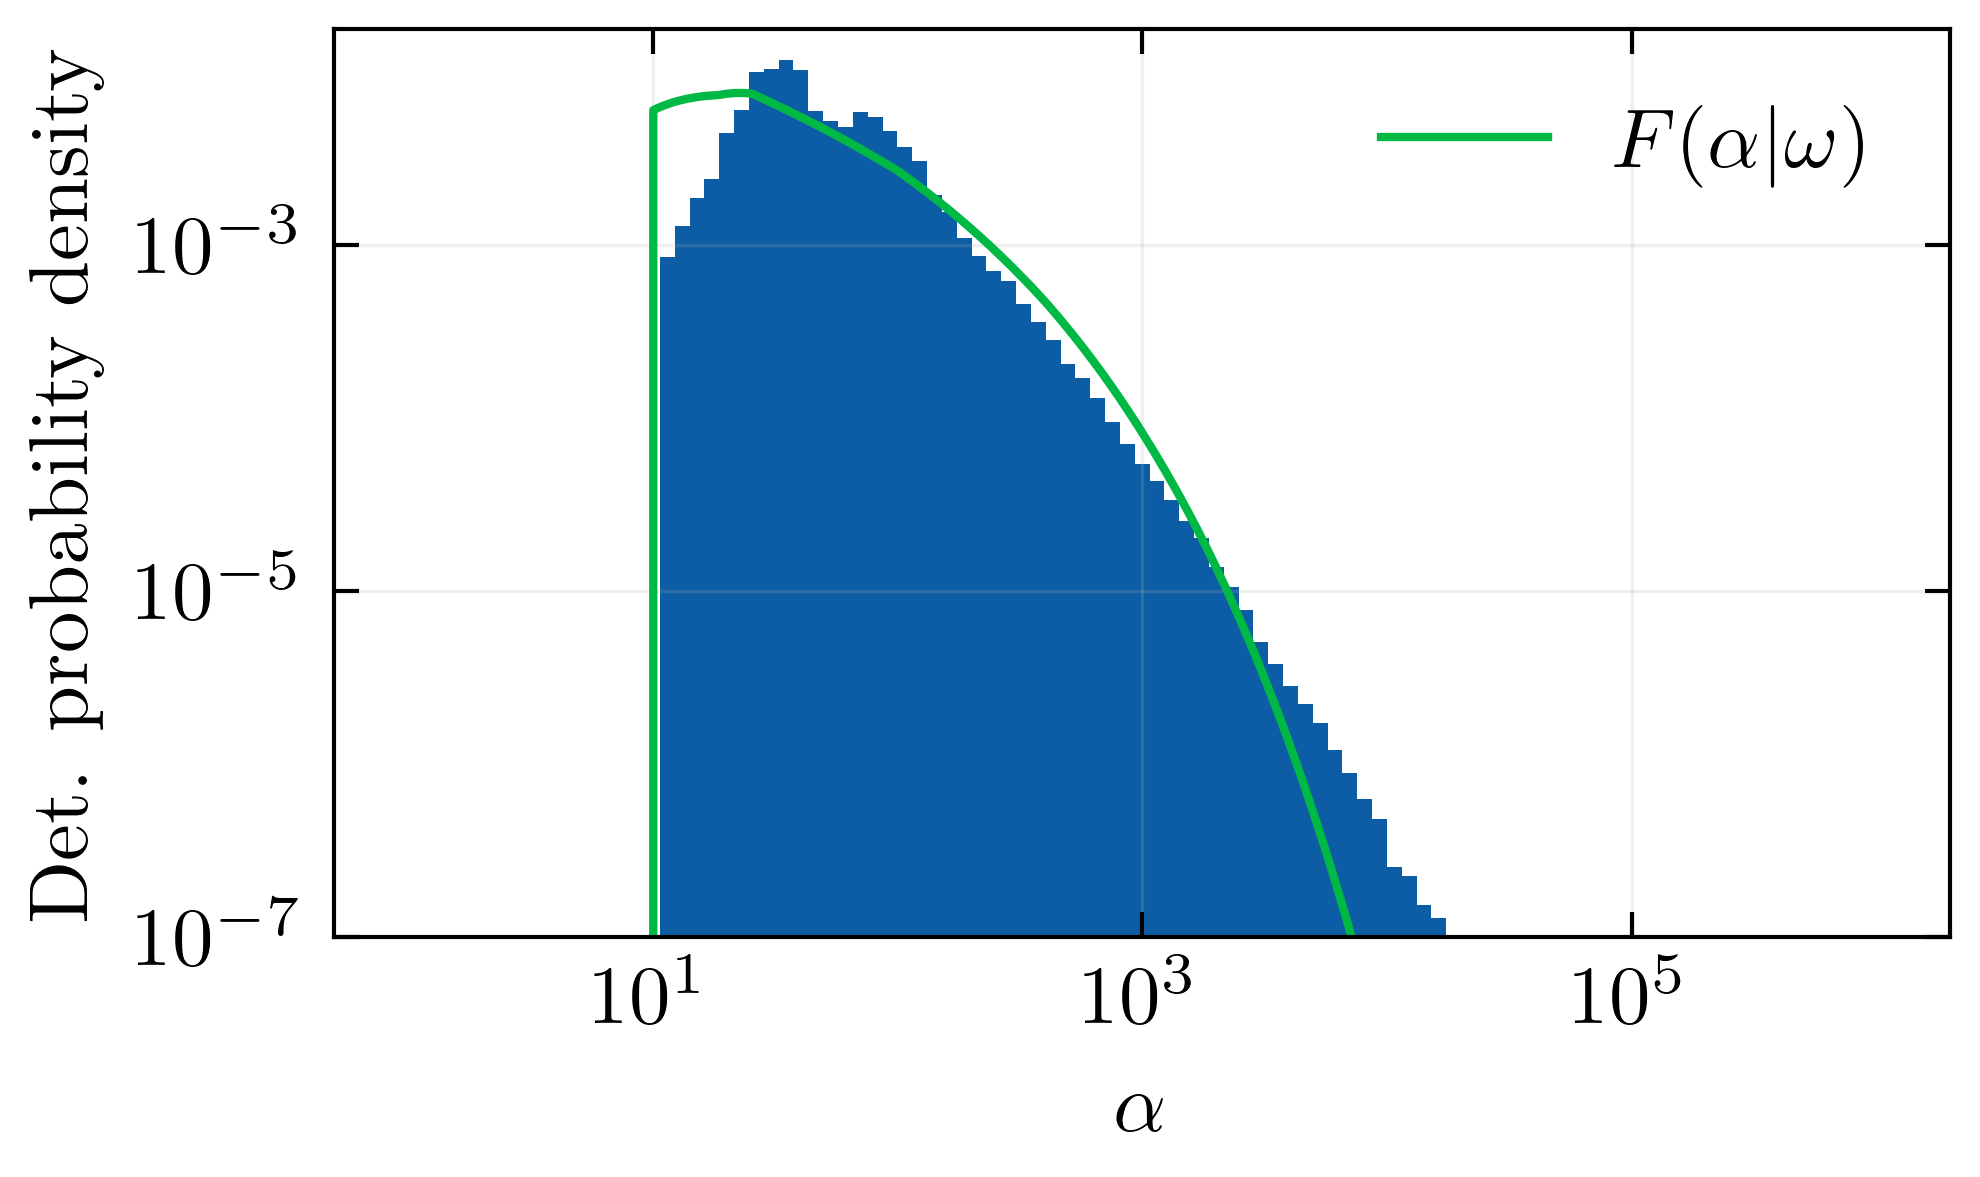
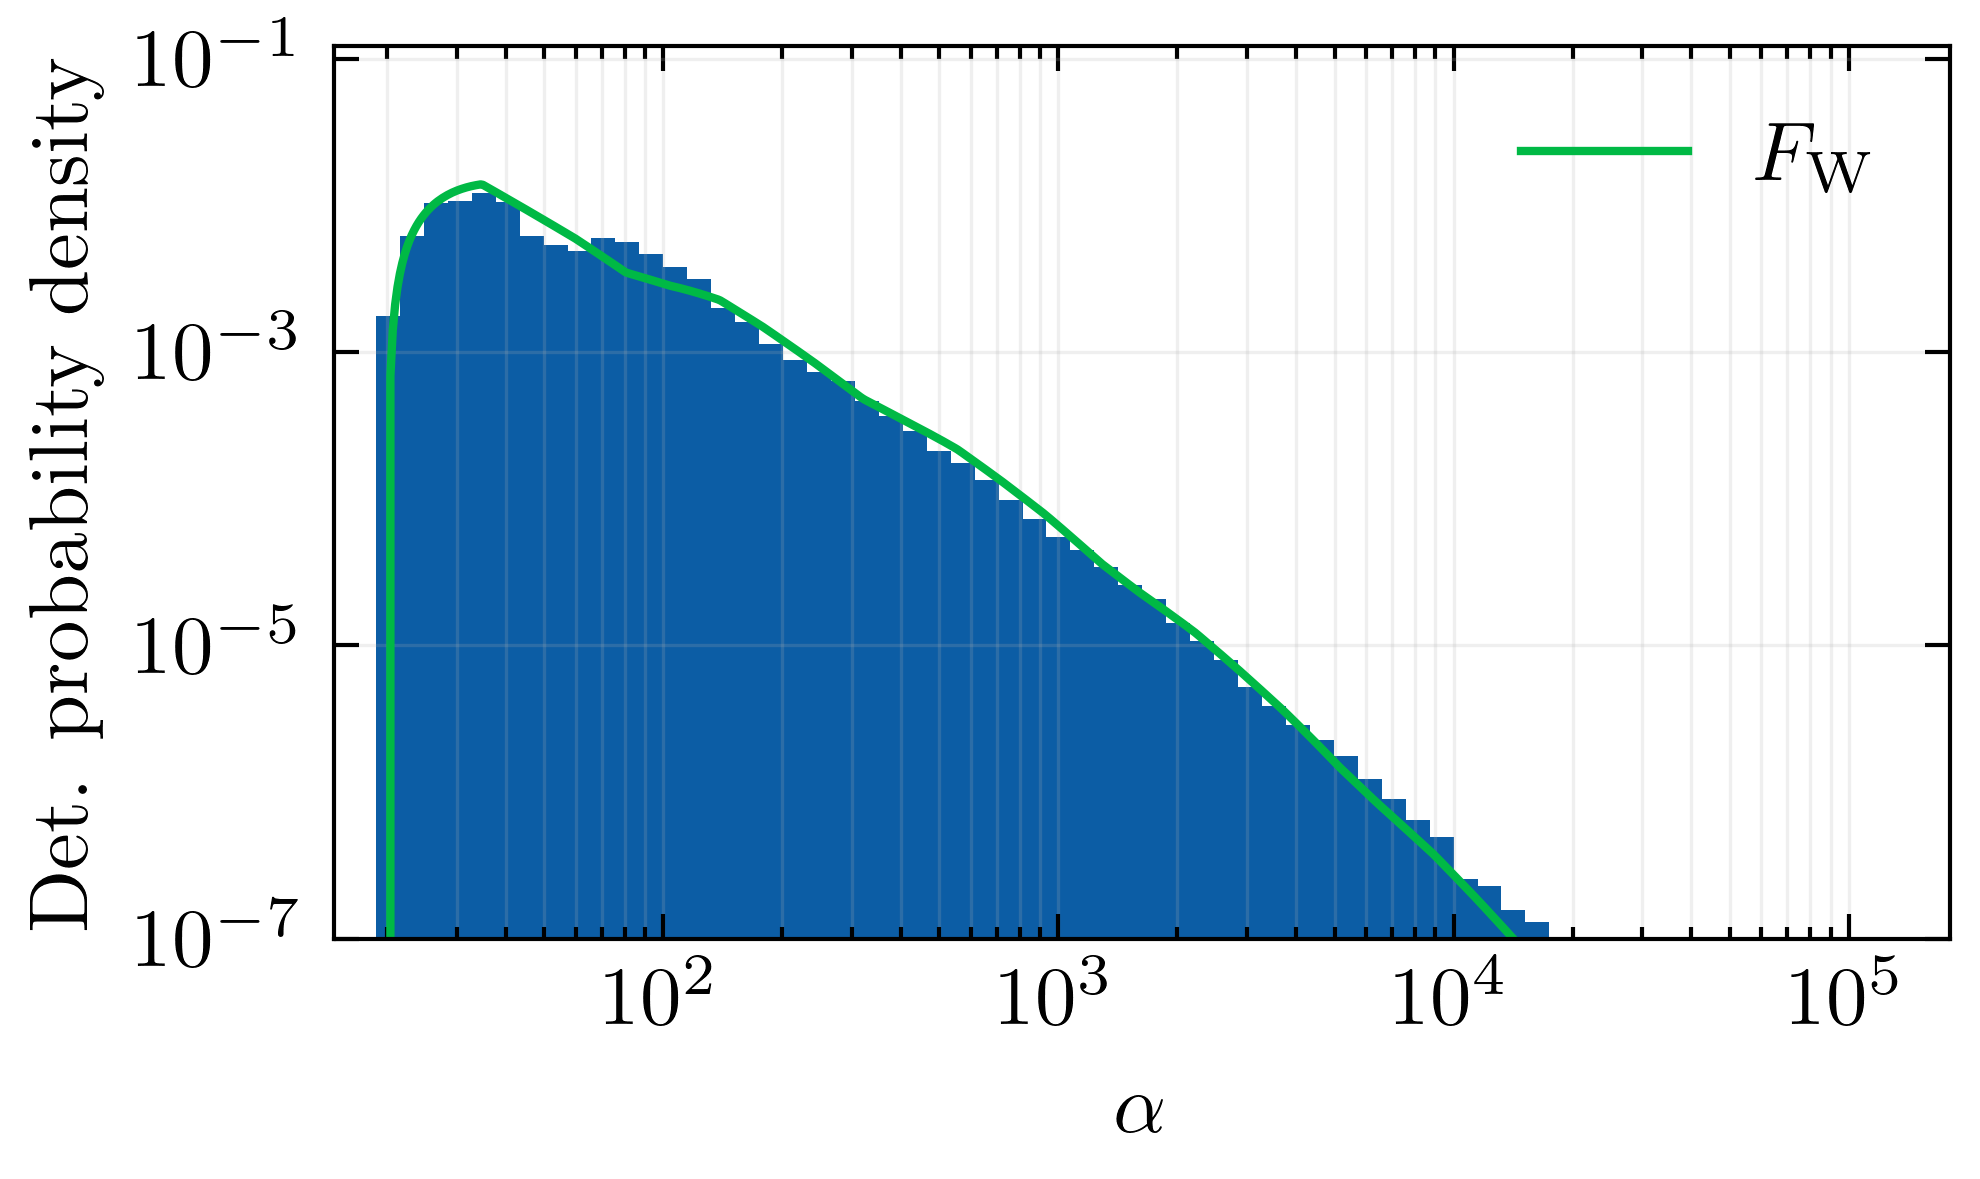
First plot of distortions

diff --git a/src/boulder_statistics/analysis/quick_calculate_Weibull.py b/src/boulder_statistics/analysis/quick_calculate_Weibull.py
@@ -12,8 +12,6 @@ from boulder_statistics.analysis.quick_calculate_general import \
 
 @dataclass(frozen=True)
 class WeibullFittingFunction(GeneralPSFDFittingFunction[WeibullFitParams]):
-    LAD_min = 0
-
     def flat_PSFD_func(self, alphas, phis, phi_weights,
                        fit_params) -> np.ndarray:
         return (alphas ** (fit_params.k - 1)) * self.CFS_sum(

diff --git a/src/boulder_statistics/analysis/quick_calculate_general.py b/src/boulder_statistics/analysis/quick_calculate_general.py
@@ -24,7 +24,7 @@ relative_alpha: Expr = pl.col(
 @dataclass(frozen=True)
 class GeneralPSFDFittingFunction[T: FitParams](ABC):
     dp: DataProductEncyclopedia
-    LAD_min: float = 2
+    LAD_min: float
     max_fitting_alpha: float = 1e8  # 1e4
     # Does have to be in the database first
     S_manual_interp_Jaccard_threshold: float = 0.7